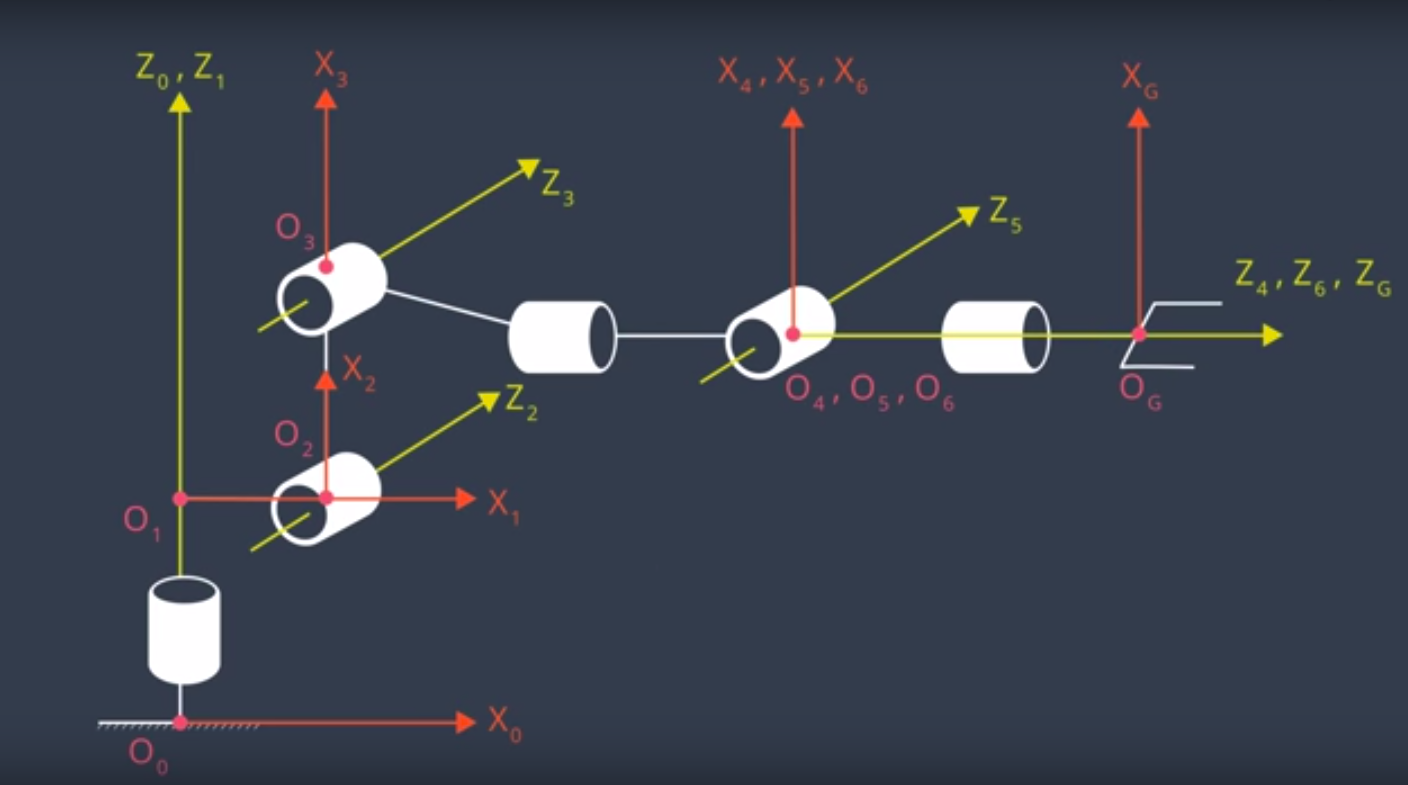
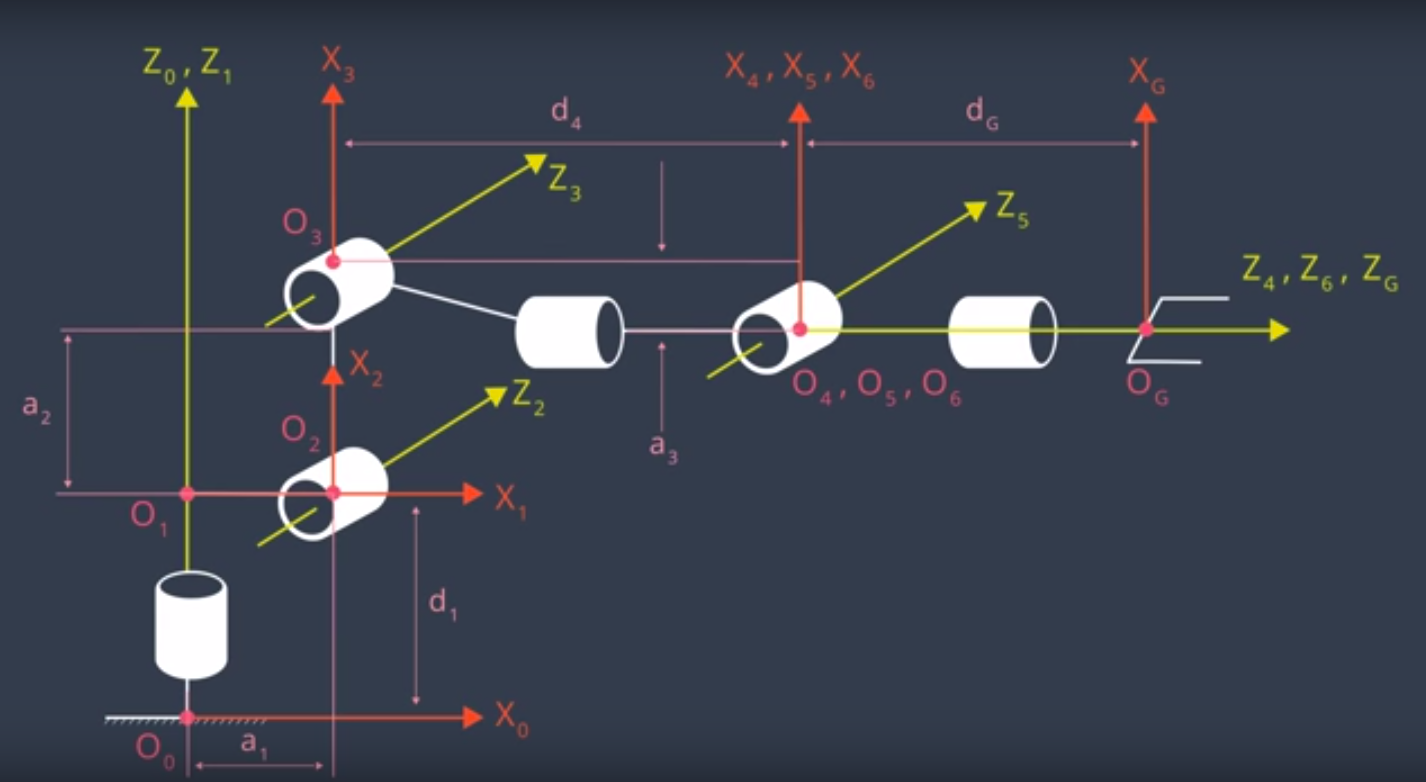
Added kinematic analysis and individual and general ht matrix

diff --git a/pick_and_place/README.md b/pick_and_place/README.md
@@ -2,7 +2,6 @@
 
 ---
 
-
 **Steps to complete the project:**  
 
 
@@ -28,49 +27,180 @@
 ### Kinematic Analysis
 #### 1. Run the forward_kinematics demo and evaluate the kr210.urdf.xacro file to perform kinematic analysis of Kuka KR210 robot and derive its DH parameters.
 
-### 1.1 Placement of the frames
+### A. Placement of the frames
 
 ![Kinematic Frames](./writeup_files/kd_frames_xz_0_ee.png)
+fig A.1
 
-##### Frame 0
+1. Frame 0
 
    The z-axis of frame zero (z0) is coincidental with the z1 (z-axis of frame1) by virtue of convention between the base link (w/c frame 0 is) and the first joint connected to the base-link (frame 1). However, the origin will be where x0 and z0 are perpendicular, as shown in fig. 1 labeled as o0 (origin 0). Here, x0 and x1 are not coincidental, because we want to take into account the height, in z0 or z1 direction, of the end-effector (ee)
 
-##### Frame 1
+2. Frame 1
+
    z1 is coincidental with z0, however, it is skewed with z2 (more info about this on frame 2). z1 is set on the axis of rotation of the revolute joint 1 (the joint whose origin is labeled o1). x1 is parallel to x0 and perpendicular to both z0 and z1.
 
-##### Frame 2
+3. Frame 2
 
-   z2 is set on the axis of rotation of the revolute joint 2 (origin labeled as o2), going "into the page" direction as its positive rotation. z2 is also skewed with z1.
+   z2 is set on the axis of rotation of the revolute joint 2 (origin labeled as o2), going "into the page" direction as its positive rotation.
 
+4. Frame 3 
+    z3-axis of frame3 (Joint 3, a revolute joint) is parallel with z2-axis, pointing into the page as its positive rotation.
+    x3-axis is coincidental with x2-axis. The origin of frame 3, o3, has a link length of a2 from the origin of o2, along x2 axis.
 
+5. Frame 4
 
-Here is an example of how to include an image in your writeup.
+   Frame4's revolute joint has its z4-axis to be perpendicular with the z3-axis. The direction of z4-axis is to the left, as its positive rotation. Joint4 is part of a Spherical wrist (along with Joint 5 and 6), hence the x4-axis is set at the same intersection point as x5 and x6, making them have a common intersection with z4, z5 and z6.
 
-![alt text][image1]
+6. Frame 5
+
+   Frame5's revolute joint has its z5-axis to be pointing into the page as its positive rotation. x5 is perpendicular to z5, intersects z4, z5 and z6 (Spherical wrists are 3 joints intersecting at one common point) and shares a common origin with o4 and o6
+
+7. Frame 6
+
+  Frame6's revolute joint has its z6-axis to be pointing on the left direction, coincidental with z4-axis and intersecting with z5-axis. x6-axis is coincidental with x4 and x5, hence the same origin as o4 and o5.
+
+8. Frame Gripper
+
+   The gripper frame has the same orientation with Frame 6, but translated along the z-axis, from frame6 by a distance of dg, as depicted in fig A.1.
+
+### B. D-H Parameters
 
 Links | alpha(i-1) | a(i-1) | d(i-1) | theta(i)
 --- | --- | --- | --- | ---
-0->1 | 0 | 0 | L1 | qi
-1->2 | -90 | L2 | 0 | -pi/2 + q2
-2->3 | 0 | 0 | 0 | q4
-3->4 |  -90 | 0 | 0 | q4
-4->5 | 0 | 0 | 0 | 0
-5->6 | 0 | 0 | 0 | 0
-6->EE | 0 | 0 | 0 | 0
+0->1 | 0 | 0 | d1 | q1
+1->2 | -90 | a1 | 0 | -90 + q2
+2->3 | 0 | a2 | 0 | q3
+3->4 |  -90 | a3 | d4 | q4
+4->5 | 90 | 0 | 0 | q5
+5->6 | -90 | 0 | 0 | q6
+6->EE | 0 | 0 | dG | q7
+fig A.2
+
+1. Link 1
+
+   Since z0 is coincidental with z1, there is no difference in angle nor distance in these axes between the base link and joint1.
+
+   On the other hand, we wanted to measure the link offset between link 0 and link 1, which is d1.
+
+      + Link twist alpha0 = 0
+      + Link length a0 = 0
+      + Link offset d1 = 0.75 (from URDF)
+      + Joint angle = theta 1
+
+3. Link 2
+
+   z2 is skewed with z1, hence there is a link length between z1 and z2 along the x1 axis shown as the length a1 in fig. A.1 above. It's DH parameter is defined to be the length a1.
+
+   The angle difference between z2 and z1 on the x1 axis is said to be -90 degrees, since we need to rotate frame1 on the x1 axis by -90 degrees to align z1 to z2.
+
+   The angle difference between x2 and x1 on the z2 axis is said to be the amount of rotation of z2-axis (theta2 or q2 in DH parameter table) plus a fixed offset of -90 degrees, since we need to offset x1 by -90 degrees, in addition to q2, to align x1 with x2
+
+      + Link twist alpha1 = -90 (from fig A.1)
+      + Link length a1 = 0.35 (from URDF)
+      + Link offset d2 = 0
+      + Joint angle q2 = -90 + theta2 (variable value)
+
+4. Link 3
+
+    There is a link length between the z-axes of joint2 and joint3 along the x2-axis, which is defined as a2.
+    
+    Since z3 and z2 are parallel, there is no link twist.
+
+    Since x3 and x2 are coincidental, there is no link offset. Their joint angle difference changes by theta3
+
+      + Link twist alpha2 = 0
+      + Link length a2 = 1.25 (from URDF)
+      + Link offset d3 = 0
+      + Joint angle q3 = theta3 (variable value)
+
+5. Link 4
+
+    z4 intersects with z3 (diagrammatically it is a skew, but we remove the offset for simpler analysis). Hence, There is a -90 degree in link twist, to align z3 to z4.
+
+    The link length between z4 and z3 is defined by the length a3 in fig. A.1
+
+    Since we made frame4's origin to be coincidental for frame5 and frame6's origins, we consider the link offset between joint3 and joint4 to be the link offset from joint3 to joint5.
+
+      + Link twist alpha3 = -90
+      + Link length a3 = -0.54(from URDF)
+      + Link offset d4 = 1.500 (from URDF joint 4 + joint 5)
+      + Joint angle q4 = theta4 (variable value)
+
+6. Link 5
+
+    z5 intersects with z4, hence we need to rotate frame4 along x4 to align z4 with z5. In doing so, we have a 90 degree link twist.
+
+    There is no difference in link length between z4 and z5 along x4.
+
+    Since we have already accounted for the link offsets from joint3 to joint5 in the link4 analysis, we will not count them again here.
+
+      + Link twist alpha4 = 90
+      + Link length a4 = 0
+      + Link offset d5 = 0
+      + Joint angle q5 = theta5 (variable value)
+
+7. Link 6
+
+    z6 and z5 intersects, hence we need to rotate frame5 along x5 by -90 degrees to align with z6.
+
+    There is no difference in link lengths between z6 and z5 along x5.
+
+    Also, there is no difference in link offsets between x6 and x5 along z6, since they are coincidental axes.
+
+      + Link twist alpha5 = -90
+      + Link length a5 = 0
+      + Link offset d6 = 0
+      + Joint angle q6 = theta5 (variable value)
+
+8. Link 7
+
+    zG and z6 are coincidental axes, so there is no rotation needed for frame6 to align z6 to zG.
+
+    There is also no link length difference in zG and z6 along xG, since the end effector has the same rotation as the joint before it.
+
+    Since end effector frameG is just a translation of frame6, there is difference in xG and x6 along zG, which is defined by dG.
+
+      + Link twist alpha5 = 0
+      + Link length a5 = 0
+      + Link offset d6 = 0.303 (from URDF)
+      + Joint angle q6 = theta5 (variable value)
 
 #### 2. Using the DH parameter table you derived earlier, create individual transformation matrices about each joint. In addition, also generate a generalized homogeneous transform between base_link and gripper_link using only end-effector(gripper) pose.
 
-Links | alpha(i-1) | a(i-1) | d(i-1) | theta(i)
---- | --- | --- | --- | ---
-0->1 | 0 | 0 | L1 | qi
-1->2 | - pi/2 | L2 | 0 | -pi/2 + q2
-2->3 | 0 | 0 | 0 | 0
-3->4 |  0 | 0 | 0 | 0
-4->5 | 0 | 0 | 0 | 0
-5->6 | 0 | 0 | 0 | 0
-6->EE | 0 | 0 | 0 | 0
+A. Individual Heterogeneous Transformation Matrices
 
+1. Link 0 to Link 1
+
+   ![T0_1](./writeup_files/htm0_1.png)
+
+2. Link 1 to 2
+
+   ![T1_2](./writeup_files/htm1_2.png)
+
+3. Link 2 to 3
+
+   ![T2_3](./writeup_files/htm2_3.png)
+
+4. Link 3 to 4
+
+   ![T3_4](./writeup_files/htm3_4.png)
+
+5. Link 4 to 5
+
+   ![T4_5](./writeup_files/htm4_5.png)
+
+6. Link 5 to 6
+
+   ![T5_6](./writeup_files/htm5_6.png)
+
+7. Link 6 to G
+
+   ![T6_G](./writeup_files/htm6_G.png)
+
+8. Link 0 to G
+
+   ![T0_G](./writeup_files/htm0_G.png)
 
 #### 3. Decouple Inverse Kinematics problem into Inverse Position Kinematics and inverse Orientation Kinematics; doing so derive the equations to calculate all individual joint angles.
 
